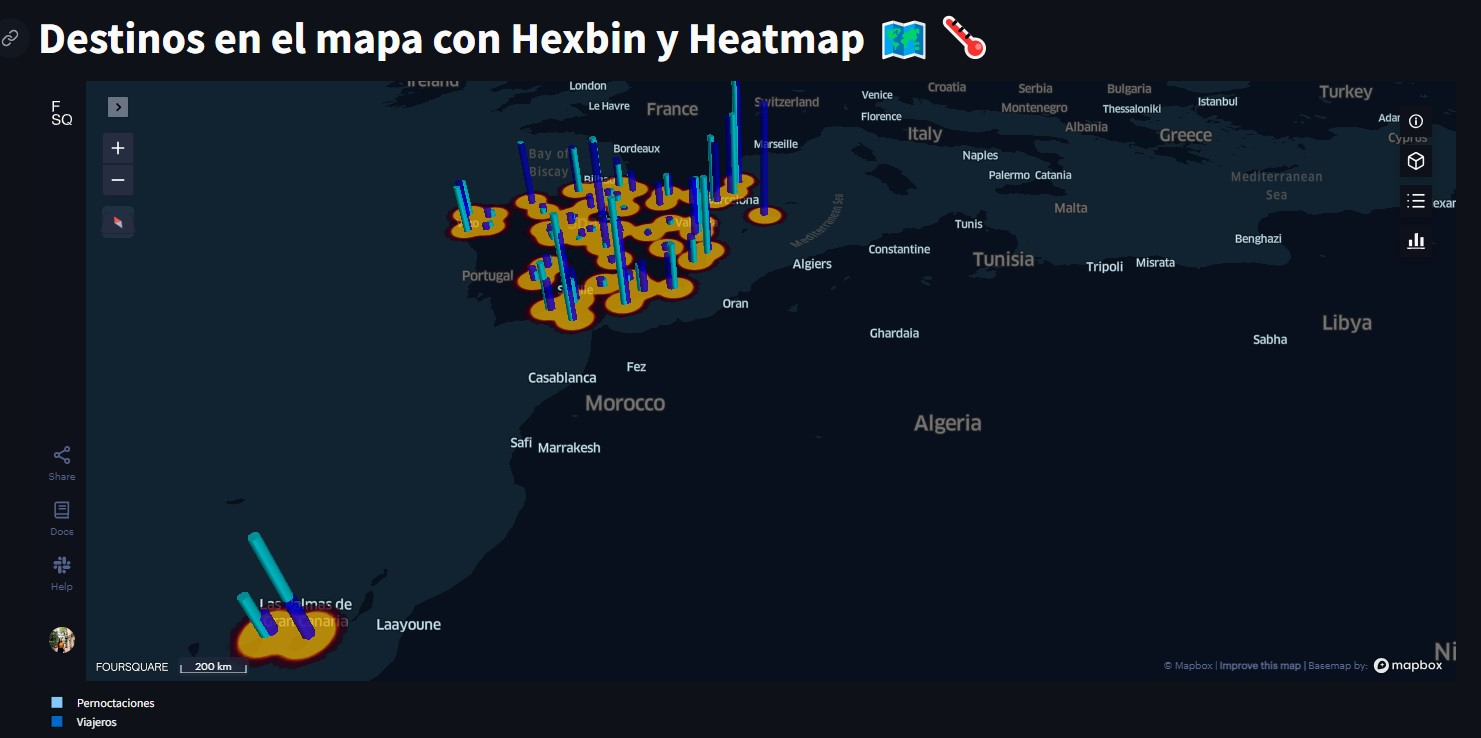
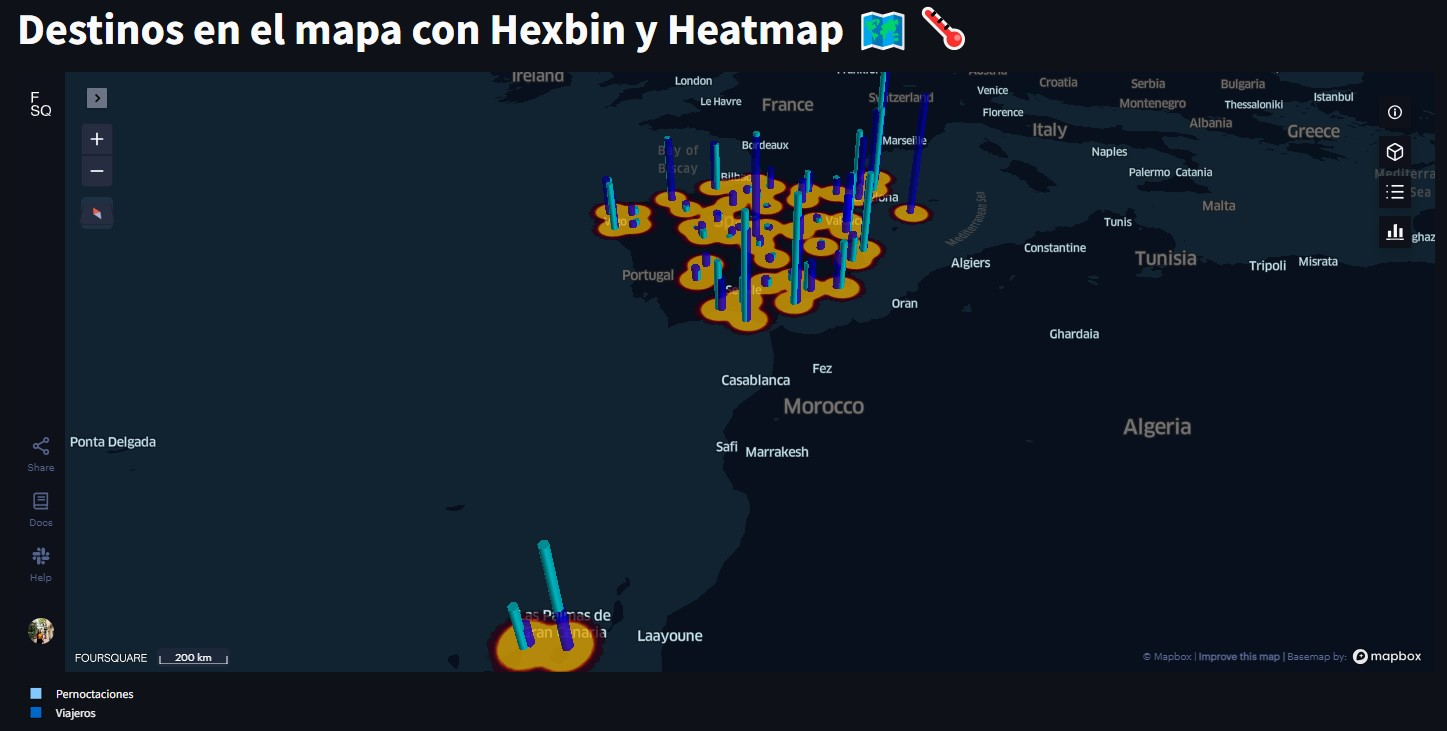
head subido

diff --git a/README.md b/README.md
@@ -1,6 +1,6 @@
 # Explorando tendencias y patrones del turimo español📊🌍
 
-![head](https://github.com/Carolina-MH/Proyecto_final/blob/main/img/home.mp4)
+![head](https://github.com/Carolina-MH/Proyecto_final/blob/main/img/gif.gif)
 
 Objetivo: Explorar la Evolución y Resiliencia del Turismo en España
 
